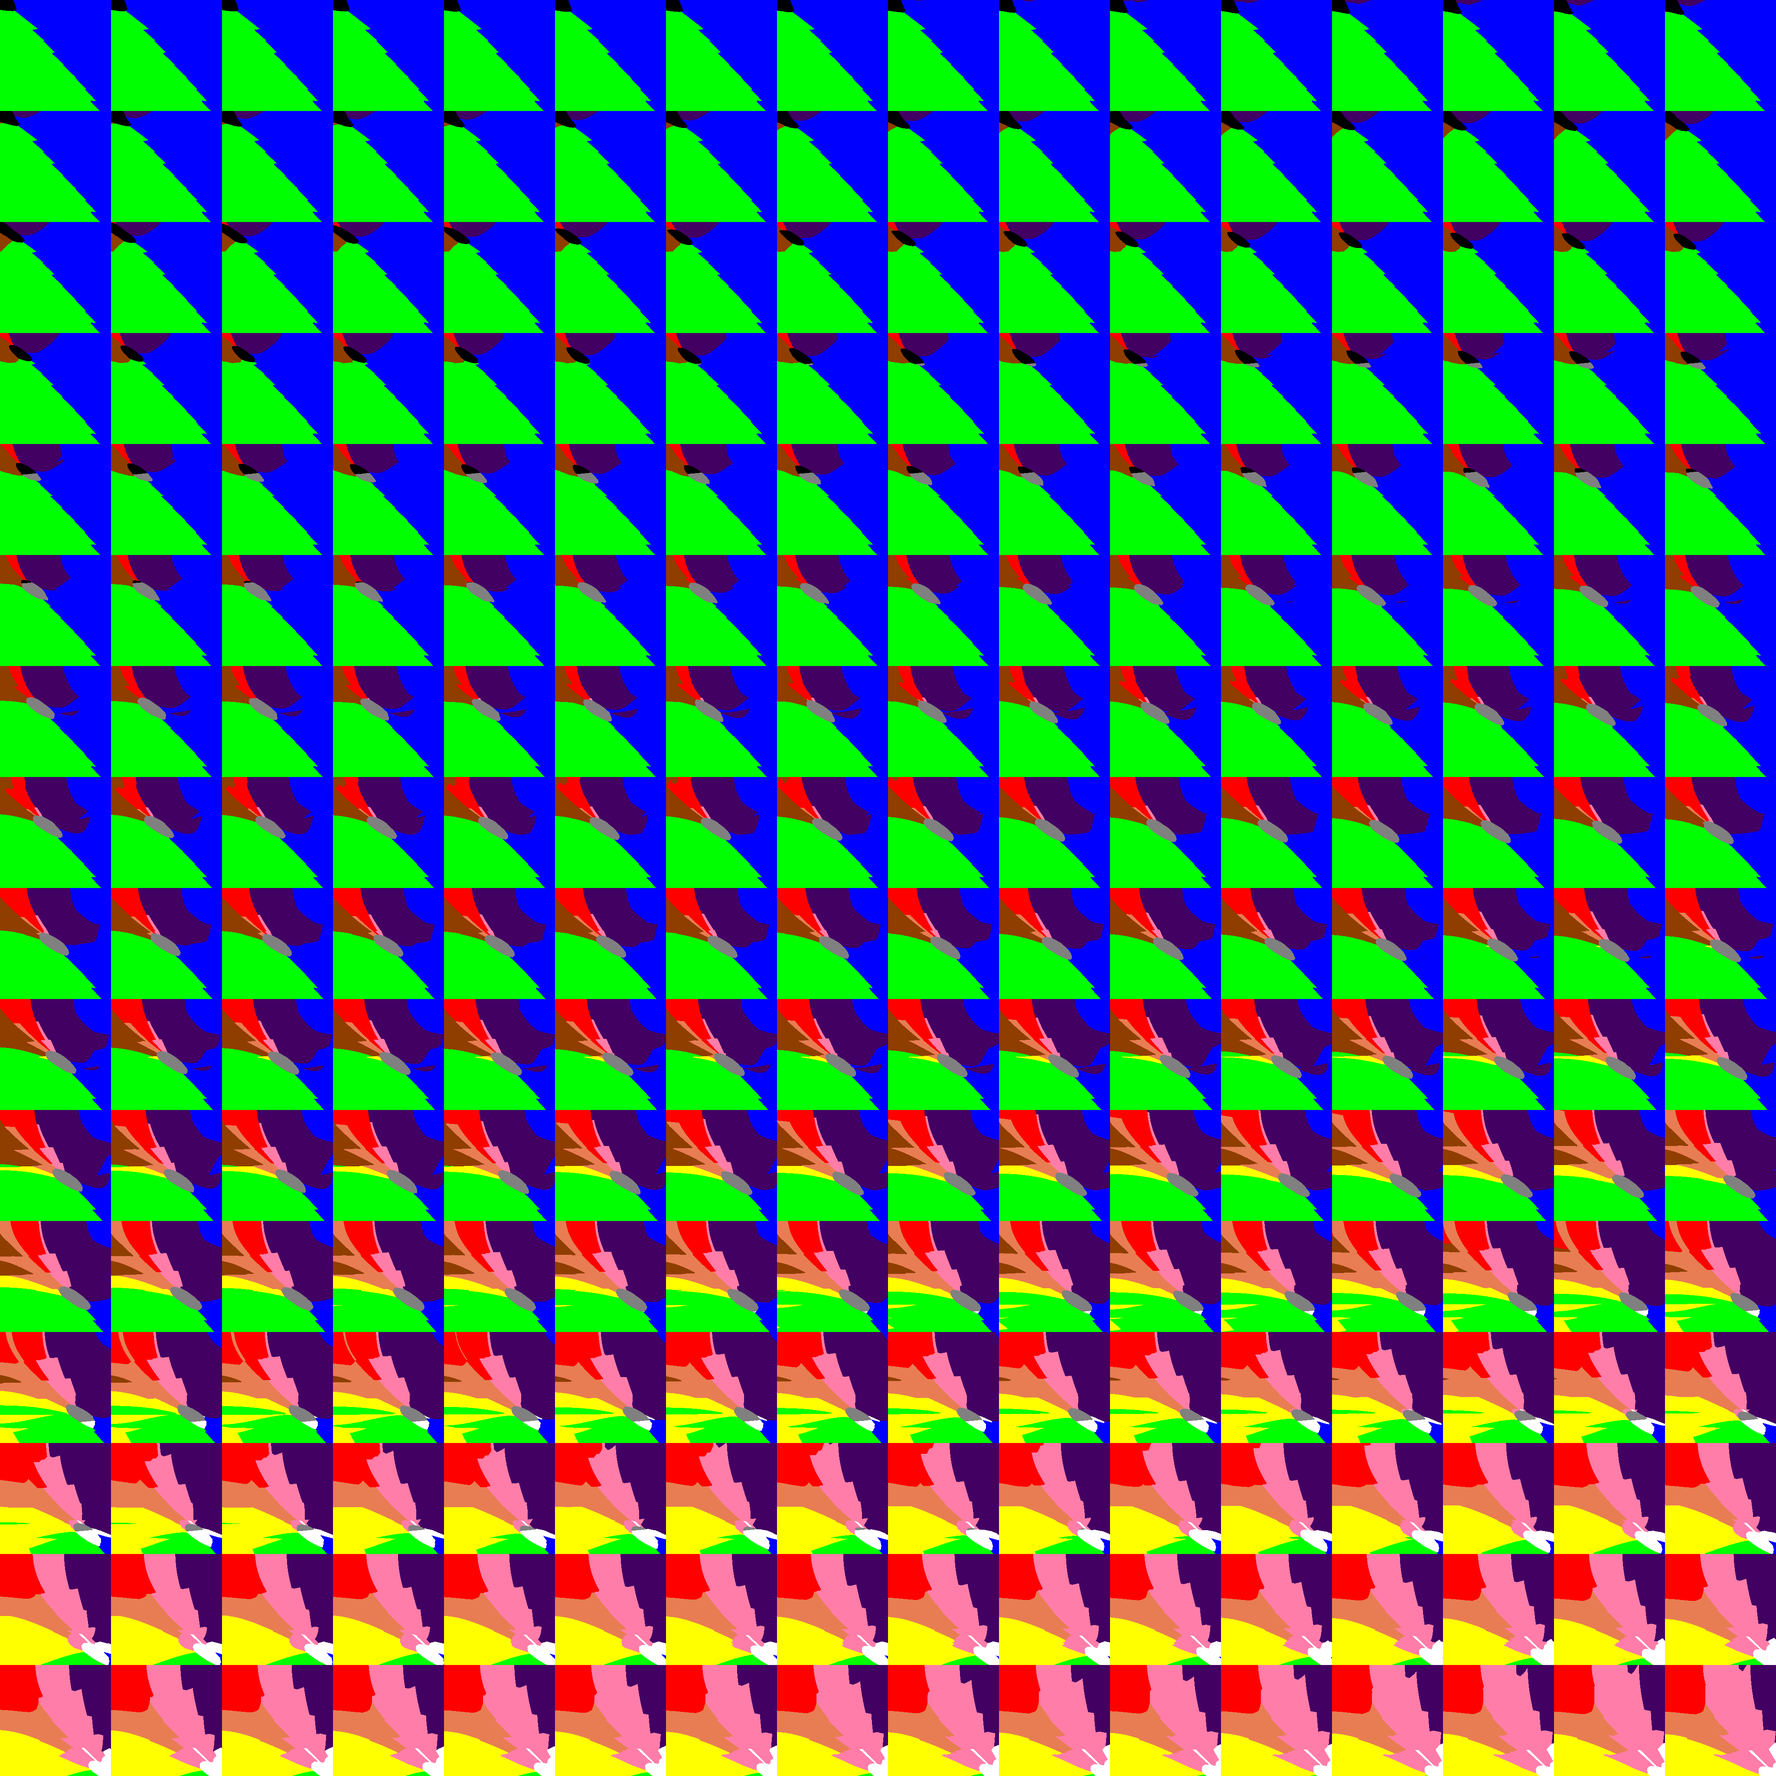
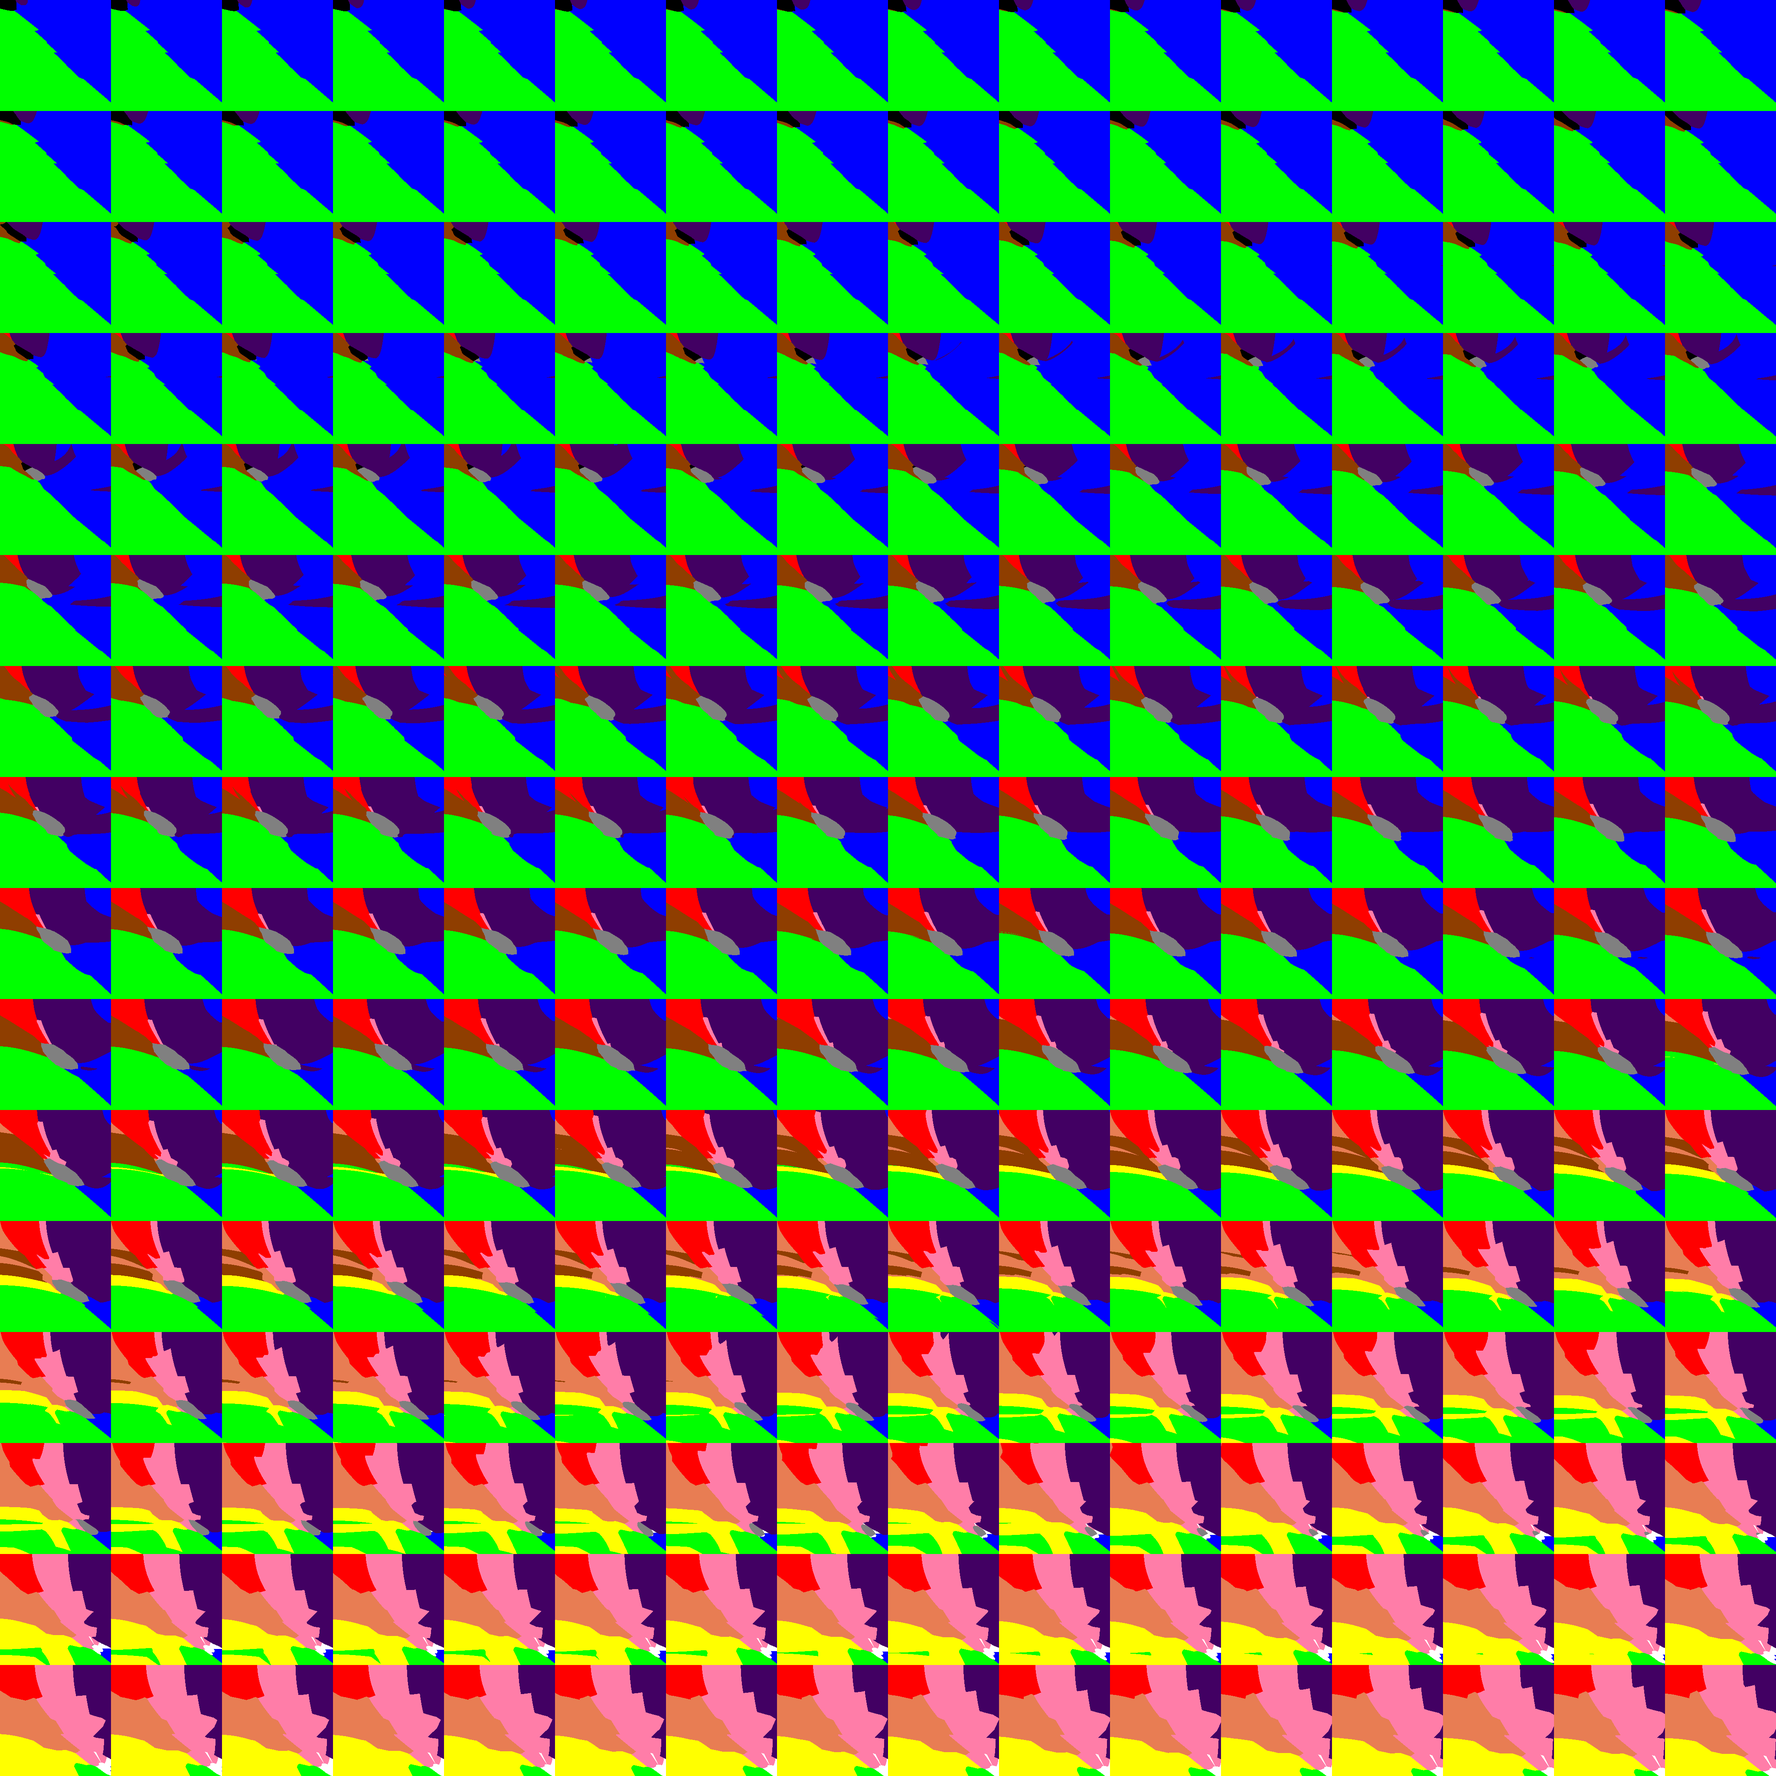
Adjust chroma used in Munsell colors
This uses the actual chromas used in the article

diff --git a/utils/color.py b/utils/color.py
@@ -11,44 +11,21 @@ import PIL.ImageOps
 import scipy
 import tqdm.contrib.concurrent
 
+verbose = 0
 
-def xyY_to_rgb(xyY):
+
+def munsell_color_to_lab(munsell_notation):
     """
-    Convert xyY color space to sRGB color space.  The xyY color space is using
-    the C illuminant, and the sRGB color space uses the D65 illuminant.
-
-    :param xyY: triple in xyY color space.
-    :returns: triple in sRGB color space.
-    """
-    XYZ = colour.xyY_to_XYZ(xyY)
-    whitepoint_c = colour.xy_to_XYZ(
-        colour.CCS_ILLUMINANTS['CIE 1931 2 Degree Standard Observer']['C'])
-    whitepoint_d65 = colour.xy_to_XYZ(
-        colour.CCS_ILLUMINANTS['CIE 1931 2 Degree Standard Observer']['D65'])
-    XYZ_adapted = colour.adaptation.chromatic_adaptation_VonKries(XYZ, whitepoint_c, whitepoint_d65)
-
-    sRGB = colour.XYZ_to_sRGB(XYZ_adapted)
-    #  same as:
-    # RGB_linear = colour.XYZ_to_RGB(
-    #     XYZ,
-    #     colour.RGB_COLOURSPACES['sRGB'].whitepoint,
-    #     colour.RGB_COLOURSPACES['sRGB'].whitepoint,
-    #     colour.RGB_COLOURSPACES['sRGB'].matrix_XYZ_to_RGB
-    # )
-    # sRGB = colour.models.eotf_inverse_sRGB(RGB_linear)
-    return sRGB
-
-
-def munsell_color_to_sRGB(munsell_notation):
-    """
-    Convert a munsell color notation to an sRGB color.
+    Convert a munsell color notation to a L*a*b* color.
 
     :param: munsell notation string like N<number>/ or <hue> <number>/<chroma>.
     :returns: a sRGB triple.
     """
     xyY = colour.munsell_colour_to_xyY(munsell_notation)
-    rgb = xyY_to_rgb(xyY)
-    return rgb
+    XYZ = colour.xyY_to_XYZ(xyY)
+    lab = colour.XYZ_to_Lab(
+        XYZ, colour.CCS_ILLUMINANTS['CIE 1931 2 Degree Standard Observer']['D65'])
+    return lab
 
 
 def rgb_to_hex(rgb):
@@ -67,21 +44,19 @@ def munsell_table():
     Create a list of hex colors based on munsell colors.  This includes 10
     neutrals and 40 x 8 chroma values.
 
-    :returns: an array of 330 colors, an array of 10 neutrals, and an array of
-        [8][40] chroma colors with the more saturated values in the first row.
+    :returns: an array of 10 neutrals and an array of [8][40] chroma colors
+        with the more saturated values in the first row.
     """
-    colors = []
     grid = [[None for _ in range(40)] for _ in range(8)]
     gray = [None for _ in range(10)]
 
-    achromatic_values = np.linspace(1.5, 9.5, 10)
+    # from
+    # https://linguistics.berkeley.edu/wcs/data/cnum-maps/WCS-Munsell-chart.txt
+    achromatic_values = [1.5, 2, 3, 4, 5, 6, 7, 8, 9, 9.5]
 
     for gidx, value in enumerate(achromatic_values):
         munsell_notation = f'N{value:.1f}/'
-        rgb = munsell_color_to_sRGB(munsell_notation)
-        rgb = np.clip(rgb, 0, 1)
-        colors.append(rgb_to_hex(rgb))
-        gray[gidx] = rgb_to_hex(rgb)
+        gray[gidx] = munsell_color_to_lab(munsell_notation)
 
     hues = []
     for hue_letter in ['R', 'YR', 'Y', 'GY', 'G', 'BG', 'B', 'PB', 'P', 'RP']:
@@ -90,34 +65,25 @@ def munsell_table():
 
     values = np.linspace(2.0, 9.0, 8)
 
+    # from
+    # https://linguistics.berkeley.edu/wcs/data/cnum-maps/WCS-Munsell-chart.txt
+    chromagrid = {
+        9: [2, 2, 2, 2, 2, 2, 2, 2, 4, 6, 6, 6, 6, 4, 2, 2, 2, 2, 2, 2, 2, 2, 2, 2, 2, 2, 2, 2, 2, 2, 2, 2, 2, 2, 2, 2, 2, 2, 2, 2],  # noqa
+        8: [6, 6, 6, 6, 6, 6, 8, 14, 16, 14, 12, 12, 12, 10, 10, 8, 8, 6, 6, 6, 6, 4, 4, 4, 4, 4, 4, 4, 6, 6, 4, 4, 4, 4, 6, 6, 6, 6, 6, 6],  # noqa
+        7: [8, 8, 10, 10, 10, 14, 14, 14, 12, 12, 12, 12, 12, 12, 10, 10, 10, 8, 8, 8, 8, 8, 6, 6, 6, 6, 6, 8, 8, 8, 6, 6, 6, 6, 8, 8, 10, 10, 8, 8],  # noqa
+        6: [12, 12, 12, 14, 16, 12, 12, 12, 10, 10, 10, 10, 10, 10, 12, 12, 10, 10, 10, 10, 8, 8, 8, 8, 8, 8, 8, 10, 10, 10, 8, 8, 8, 8, 10, 10, 10, 10, 12, 12],  # noqa
+        5: [14, 14, 14, 16, 14, 12, 10, 10, 8, 8, 8, 8, 8, 8, 10, 12, 12, 10, 10, 10, 10, 8, 8, 8, 8, 8, 8, 10, 12, 12, 10, 10, 10, 10, 10, 12, 12, 12, 14, 14],  # noqa
+        4: [14, 14, 14, 14, 10, 8, 8, 6, 6, 6, 6, 6, 6, 6, 8, 8, 10, 10, 10, 10, 8, 8, 8, 8, 6, 6, 8, 8, 10, 10, 12, 10, 10, 10, 10, 10, 10, 10, 10, 10],  # noqa
+        3: [10, 10, 12, 10, 8, 6, 6, 6, 4, 4, 4, 4, 4, 4, 6, 6, 8, 8, 10, 8, 6, 6, 6, 6, 6, 6, 6, 8, 10, 10, 12, 10, 10, 10, 10, 10, 10, 10, 10, 10],  # noqa
+        2: [8, 8, 8, 6, 4, 4, 4, 2, 2, 2, 2, 2, 2, 2, 4, 4, 4, 6, 6, 6, 4, 4, 4, 4, 4, 4, 6, 6, 6, 8, 10, 8, 8, 8, 6, 6, 8, 8, 8, 8],  # noqa
+    }
+
     for hidx, hue in enumerate(hues):
         for vidx, value in enumerate(values):
-            # Start with a moderate chroma that should exist for most hue-value
-            # combinations
-            chroma = 6
-
-            # Try to find a valid chroma for this hue-value combination
-            valid_color = False
-            while not valid_color and chroma > 0:
-                try:
-                    munsell_notation = f'{hue} {value:.1f}/{chroma:.1f}'
-                    rgb = munsell_color_to_sRGB(munsell_notation)
-
-                    # Check if RGB values are valid (not NaN and within range
-                    # after clipping)
-                    rgb_clipped = np.clip(rgb, 0, 1)
-                    if not np.isnan(rgb).any() and np.allclose(rgb, rgb_clipped, atol=0.2):
-                        valid_color = True
-                        colors.append(rgb_to_hex(rgb_clipped))
-                        grid[7 - vidx][hidx] = rgb_to_hex(rgb_clipped)
-                    else:
-                        chroma -= 1
-                except Exception:
-                    chroma -= 1
-
-            if not valid_color:
-                print(f'Could not find valid color for {hue} {value:.1f}/')
-    return colors, grid, gray
+            chroma = chromagrid[int(value)][hidx]
+            munsell_notation = f'{hue} {value:.1f}/{chroma:.1f}'
+            grid[7 - vidx][hidx] = munsell_color_to_lab(munsell_notation)
+    return grid, gray
 
 
 def image_to_colors(image_path):
@@ -164,13 +130,16 @@ def image_to_colors(image_path):
     return results
 
 
-def process_delta2000_chunk(args):
-    labrgb, labcat, catvals = args
+def process_difference_chunk(args):
+    labrgb, labcat, catvals, delta2000 = args
     results = []
     for rgblab in labrgb:
-        deltas = np.array(colour.difference.delta_E_CIE2000(rgblab, labcat))
+        if delta2000:
+            deltas = np.array(colour.difference.delta_E_CIE2000(rgblab, labcat))
+        else:
+            deltas = np.array(colour.difference.delta_E_CIE1976(rgblab, labcat))
         term_idx = np.argmin(deltas)
-        results.append((term_idx, catvals[term_idx]))
+        results.append(catvals[term_idx])
     return results
 
 
@@ -184,31 +153,19 @@ def rgb_categories(labrgb, labcat, catvals, delta2000=False):
         labels.
     :param catvals: A list matching the length of labcat where the values are
         the indices into the terms list.
+    :param delta2000: False to use delta_E_CIE1976, True to use delta_E_CIE2000
     :returns: A numpy uint8 array of [256][256][256] of the color terms indices
         that are closest to the L*a*b* values of the labcat values.
     """
     labrgb = labrgb.reshape(-1, 3)
     cats = np.zeros((labrgb.shape[0], ), dtype=np.uint8)
-    chunksize = 65536
-    for chunk in tqdm.tqdm(range(0, labrgb.shape[0], chunksize)):
-        # Calculate the Euclidean distance between each color
-        distances = np.linalg.norm(labrgb[chunk:chunk + chunksize, np.newaxis] - labcat, axis=2)
-        indices = np.argmin(distances, axis=1)
-        cats[chunk:chunk + chunksize] = catvals[indices]
-    if delta2000:
-        labchunksize = 4096
-        results = tqdm.contrib.concurrent.process_map(
-            process_delta2000_chunk,
-            [(labrgb[ridx:ridx+labchunksize, :], labcat, catvals)
-             for ridx in range(0, labrgb.shape[0], labchunksize)],
-            chunksize=1)
-        results = [item for sublist in results for item in sublist]
-        differ = 0
-        for idx, (_term_idx, term) in tqdm.tqdm(enumerate(results)):
-            if term != cats[idx]:
-                cats[idx] = term
-                differ += 1
-        print(f'Differences between E1976 and E2000: {differ}')
+    chunksize = 8192
+    results = tqdm.contrib.concurrent.process_map(
+        process_difference_chunk,
+        [(labrgb[ridx:ridx + chunksize, :], labcat, catvals, delta2000)
+         for ridx in range(0, labrgb.shape[0], chunksize)],
+        chunksize=1)
+    cats = np.array([item for sublist in results for item in sublist])
     return cats.reshape(256, 256, 256)
 
 
@@ -233,22 +190,20 @@ def ansicolor(color, text):
 
 
 def make_base_data():
-    _, hexgrid, hexgray = munsell_table()
+    labgrid, labgray = munsell_table()
 
     if os.path.exists('labrgb.npz'):
         labrgb = np.load('labrgb.npz')['labrgb']
     else:
-        labrgb = np.zeros((256 ** 3, 3), dtype=float)
-        for r in tqdm.tqdm(range(256)):
-            for g in range(256):
-                for b in range(256):
-                    labrgb[r * 65536 + g * 256 + b, :3] = [r / 255, g / 255, b / 255]
+        labrgb = np.indices((256, 256, 256)).transpose((1, 2, 3, 0))
+        labrgb = labrgb.reshape(-1, 3)
+        labrgb = labrgb / 255.0
         labrgb = colour.XYZ_to_Lab(colour.sRGB_to_XYZ(labrgb))
         np.savez_compressed('labrgb.npz', labrgb=labrgb)
-    return labrgb, hexgrid, hexgray
+    return labrgb, labgrid, labgray
 
 
-def generate_bct20(hexgrid, hexgray):
+def generate_bct20(labgrid, labgray):
     # This image is Figure 9 of
     #   Lindsey, D. T., and A. M. Brown. 2014. "The Color Lexicon of American
     #   English." Journal of Vision. Association for Research in Vision and
@@ -302,8 +257,9 @@ def generate_bct20(hexgrid, hexgray):
     # four being black.
     graytbl = ['bk', 'bk', 'gy', 'gy', 'gy', 'gy', 'gy', 'gy', 'white', 'white']
 
-    print(results)
-    print(table)
+    if verbose >= 2:
+        print(results)
+        print(table)
     for row in table:
         print(''.join([str(val)[:2] for val in row]))
     # Prepopulate this with colors at some extremes
@@ -317,18 +273,23 @@ def generate_bct20(hexgrid, hexgray):
         'FF00FF': 'magenta',
         'FFFF00': 'yellow',
     }
-    for hx, val in zip(hexgray, graytbl):
-        hexdict[hx] = val
+    labdict = {
+        tuple(colour.XYZ_to_Lab(colour.sRGB_to_XYZ(
+            [int(hx[i:i + 2], 16) / 255 for i in range(0, 6, 2)]))): v
+        for hx, v in hexdict.items()}
+    for lab, val in zip(labgray, graytbl):
+        labdict[tuple(lab)] = val
     for y in range(len(table)):
-        for hx, val in zip(hexgrid[y], table[y]):
-            hexdict[hx] = val
-    pprint.pprint(hexdict)
-    return hexdict, viewingColors
+        for lab, val in zip(labgrid[y], table[y]):
+            labdict[tuple(lab)] = val
+    if verbose >= 1:
+        pprint.pprint(labdict)
+    return labdict, viewingColors
 
 
-def generate_bct11(hexgrid, hexgray):
-    image_path = 'm_i1534-7362-14-2-17-f05.jpeg'
-    left, upper, right, lower = 284, 40, 516, 87
+def generate_bct11(labgrid, labgray):
+    image_path = 'i1534-7362-14-2-17-f05.jpeg'
+    left, upper, right, lower = 699, 102, 1269, 212
     xstride = (right - left) / 40
     ystride = (lower - upper) / 8
     x0 = left + xstride / 2
@@ -392,9 +353,10 @@ def generate_bct11(hexgrid, hexgray):
         print(''.join([str(val)[:2] for val in row]))
     graytbl = ['bk', 'bk', 'gy', 'gy', 'gy', 'gy', 'gy', 'gy', 'white', 'white']
 
-    print('Numpy array (8x40):')
-    for row in range(grid.shape[0]):
-        print(''.join([f'{grid[row][col]:1d}' for col in range(grid.shape[1])]))
+    if verbose >= 2:
+        print('Numpy array (8x40):')
+        for row in range(grid.shape[0]):
+            print(''.join([f'{grid[row][col]:1d}' for col in range(grid.shape[1])]))
 
     hexdict = {
         'FFFFFF': 'white',
@@ -404,27 +366,30 @@ def generate_bct11(hexgrid, hexgray):
         '0000FF': 'blue',
         'FFFF00': 'yellow',
     }
-    for hx, val in zip(hexgray, graytbl):
-        hexdict[hx] = val
+    labdict = {
+        tuple(colour.XYZ_to_Lab(colour.sRGB_to_XYZ(
+            [int(hx[i:i + 2], 16) / 255 for i in range(0, 6, 2)]))): v
+        for hx, v in hexdict.items()}
+    for lab, val in zip(labgray, graytbl):
+        labdict[tuple(lab)] = val
     for y in range(len(table)):
-        for hx, val in zip(hexgrid[y], table[y]):
-            hexdict[hx] = val
-    pprint.pprint(hexdict)
-    return hexdict, viewingColors
+        for lab, val in zip(labgrid[y], table[y]):
+            labdict[tuple(lab)] = val
+    if verbose >= 1:
+        pprint.pprint(labdict)
+    return labdict, viewingColors
 
 
-def hexdict_to_termmap(hexdict, viewcolors, labrgb, basename, delta2000=False):
+def labdict_to_termmap(labdict, viewcolors, labrgb, basename, delta2000=False):
     cats = {}
     labcat = []
     labcatidx = []
     for clr in viewcolors:
         cat = clr
         cats[cat] = len(cats)
-    for hx, cat in hexdict.items():
+    for labval, cat in labdict.items():
         cat = {'bk': 'black', 'gy': 'gray'}.get(cat, cat)
-        labval = colour.XYZ_to_Lab(colour.sRGB_to_XYZ(
-            [int(hx[i:i + 2], 16) / 255 for i in range(0, 6, 2)]))
-        labcat.append(labval)
+        labcat.append(list(labval))
         if cat not in cats:
             cats[cat] = len(cats)
         labcatidx.append(cats[cat])
@@ -470,17 +435,23 @@ if __name__ == '__main__':
     parser.add_argument(
         '--bct11', action=argparse.BooleanOptionalAction, default=True,
         help='Generate the BCT11 term map.  The file '
-        'm_i1534-7362-14-2-17-f05.jpeg must be in the currenct directory.')
+        'i1534-7362-14-2-17-f05.jpeg must be in the currenct directory.')
     parser.add_argument(
-        '--delta2000', '--delta_e_cie2000', action='store_true',
-        help='Use delta_E_CIE2000 for color comparisions.  If not specified, '
-        'delta_E_CIE1976 is used.')
+        '--delta2000', '--delta_e_cie2000', action='store_true', default=True,
+        help='Use delta_E_CIE2000 for color comparisions (default)')
+    parser.add_argument(
+        '--delta1976', '--delta_e_cie1976', dest='delta2000', action='store_false',
+        help='Use delta_E_CIE1976 for color comparisions.')
+    parser.add_argument(
+        '--verbose', '-v', action='count', default=0,
+        help='Increase verbosity')
     opts = parser.parse_args()
+    verbose = opts.verbose
 
-    labrgb, hexgrid, hexgray = make_base_data()
+    labrgb, labgrid, labgray = make_base_data()
     if opts.bct20:
-        hexdict20, viewcolors20 = generate_bct20(hexgrid, hexgray)
-        hexdict_to_termmap(hexdict20, viewcolors20, labrgb, 'bct20_en_us', opts.delta2000)
+        labdict20, viewcolors20 = generate_bct20(labgrid, labgray)
+        labdict_to_termmap(labdict20, viewcolors20, labrgb, 'bct20_en_us', opts.delta2000)
     if opts.bct11:
-        hexdict11, viewcolors11 = generate_bct11(hexgrid, hexgray)
-        hexdict_to_termmap(hexdict11, viewcolors11, labrgb, 'bct11_en_us', opts.delta2000)
+        labdict11, viewcolors11 = generate_bct11(labgrid, labgray)
+        labdict_to_termmap(labdict11, viewcolors11, labrgb, 'bct11_en_us', opts.delta2000)
